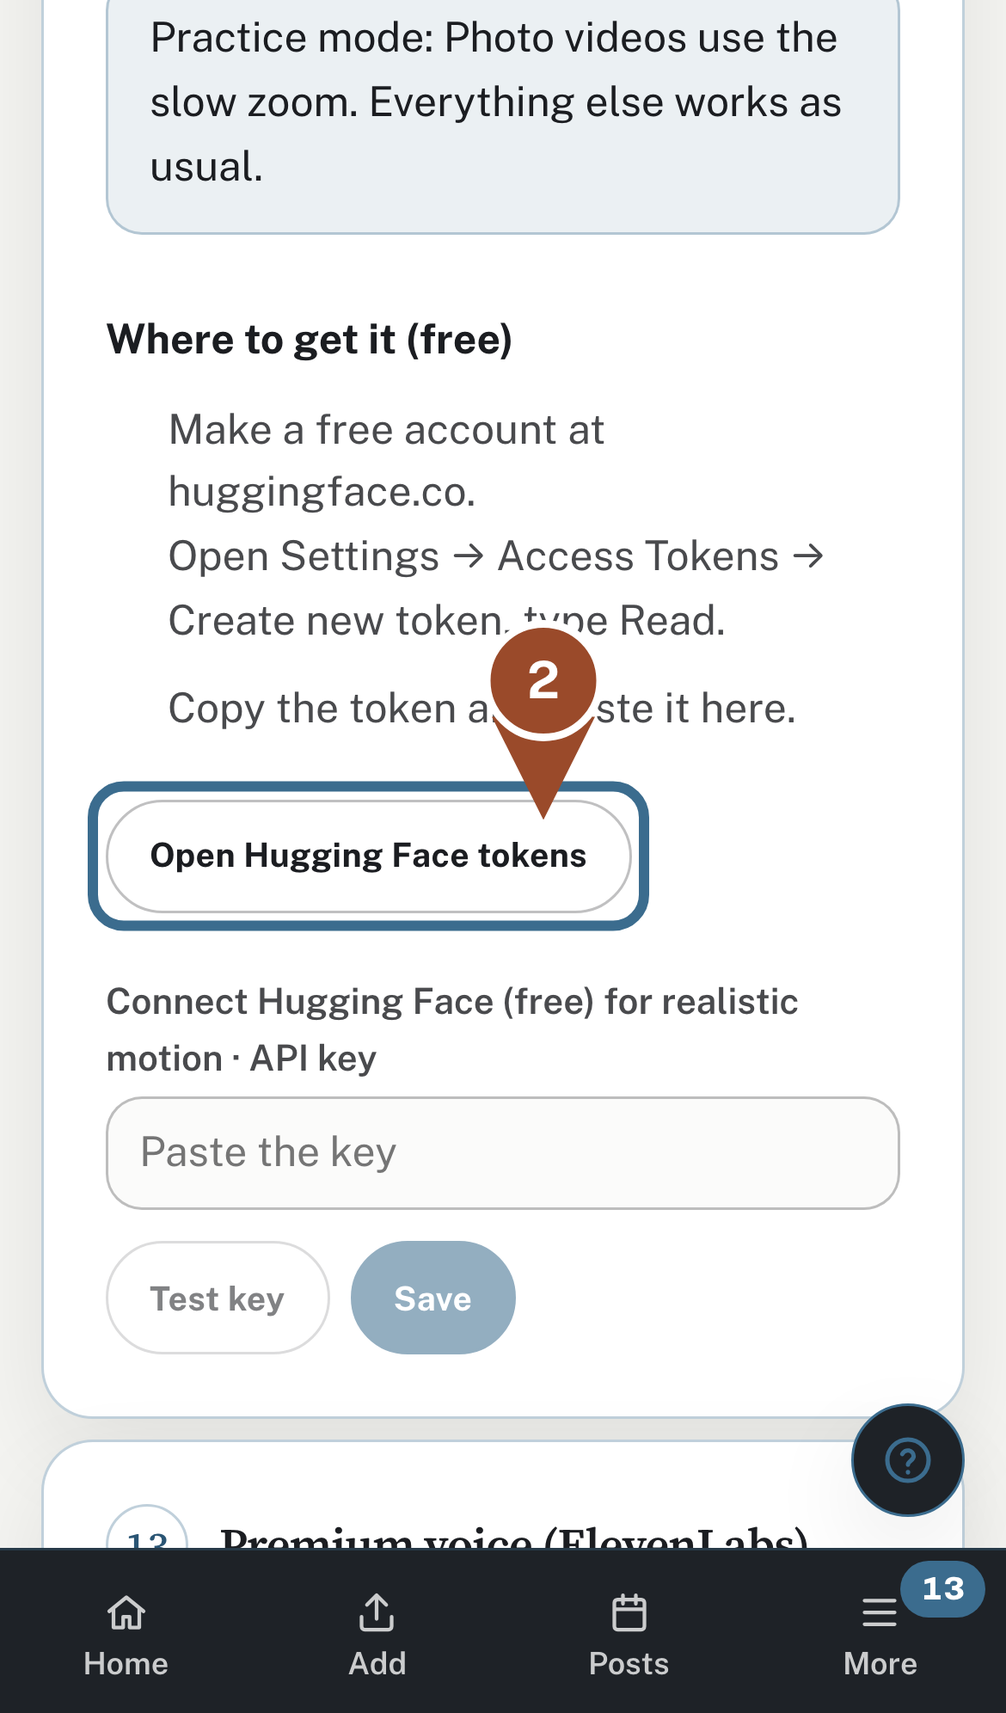
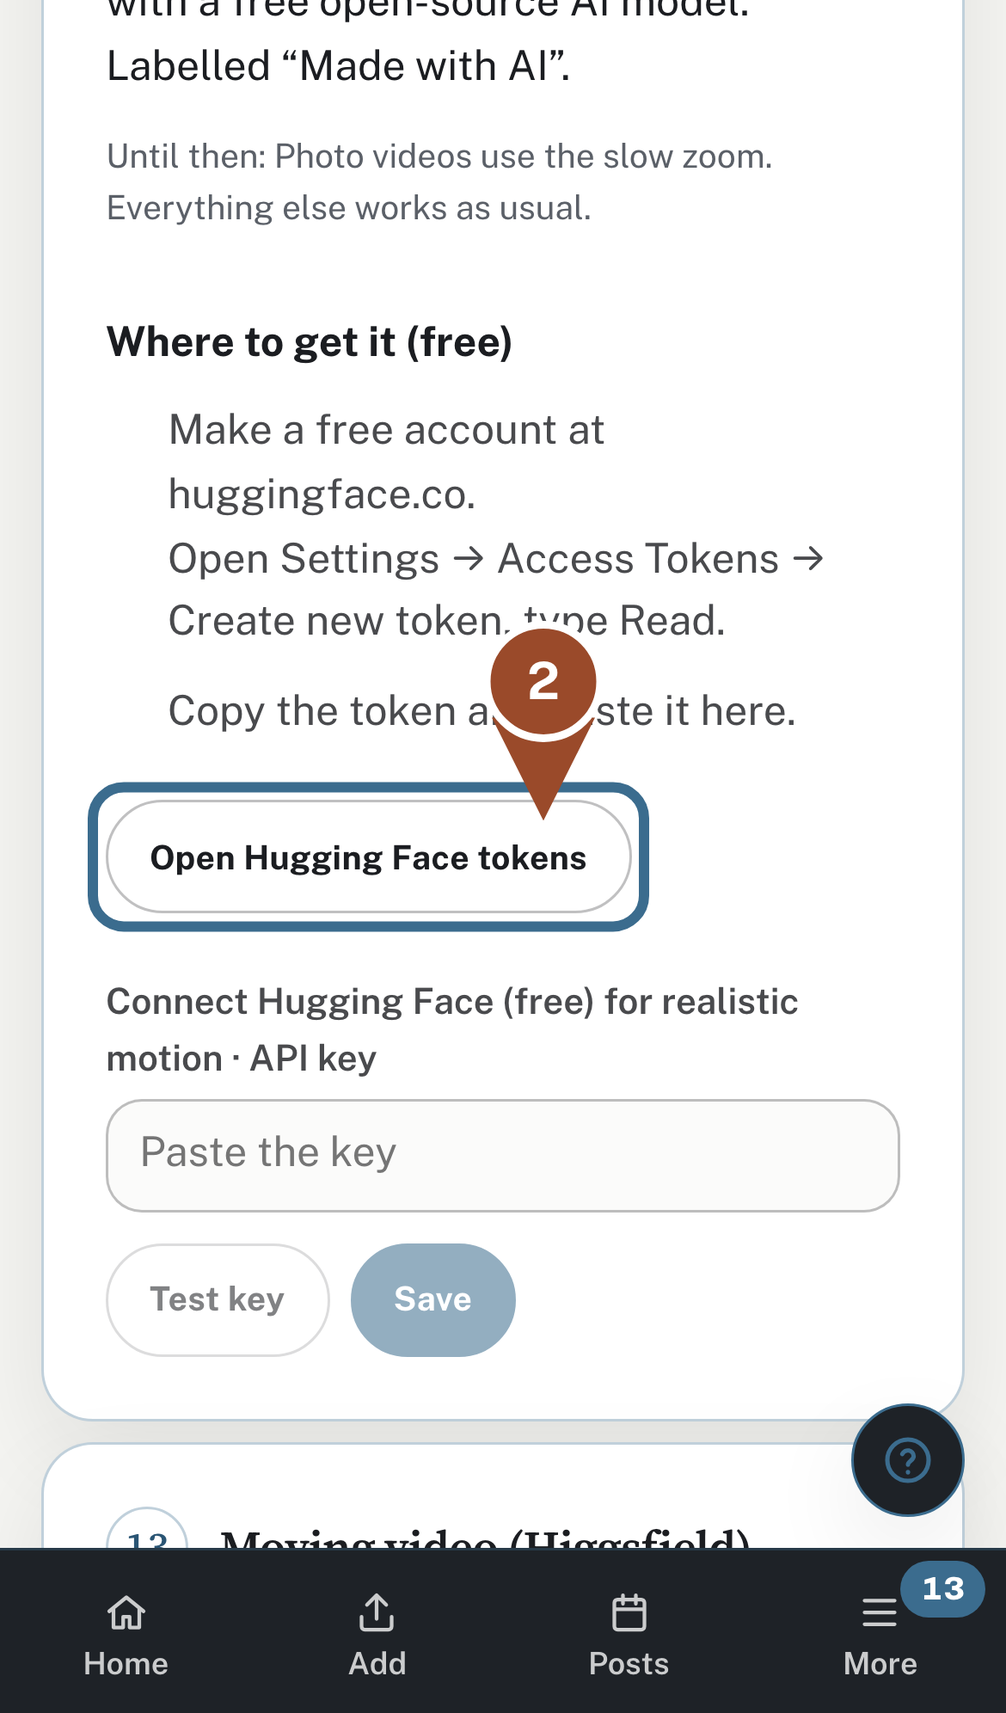
A place to connect Higgsfield; no "studio host" wording; no "Practice mode" label (owner, 13 Nov 2026)
- Connections → Your services and keys gets "Moving video (Higgsfield)": key ID + secret,
  checked read-only (a status lookup for a request that cannot exist: 401 refused, 404
  accepted), stored like every pasted key. Nothing is bought. Porch & Party reads the
  owner's own key from its 0600 files once she makes one; every other studio connects its own.
- "provided by your studio host", "Connected by your studio host", "Ask your studio host"
  and "your host gives you" become plain words; the keys page says "Not connected ·
  optional" and "Until then: …" instead of "Practice mode".
- Guide connect-higgsfield; tests/unit/higgsfield.test.ts.

Claude-Session: https://claude.ai/code/session_01CJ98gV1Fg1ugnbr1epnbBp

diff --git a/shared/setup.ts b/shared/setup.ts
@@ -7,7 +7,7 @@
 // (connections.secret_enc, SECRETS_KEY). At runtime the encrypted key is read FIRST, then the
 // Worker secret named in `secrets` (how a studio the host runs on the host's own accounts gets them).
 
-export type SetupServiceId = "resend" | "buffer" | "openrouter" | "firecrawl" | "hunter" | "youtube_api" | "google_app" | "meta_app" | "github" | "facebook" | "pinterest" | "elevenlabs" | "huggingface";
+export type SetupServiceId = "resend" | "buffer" | "openrouter" | "firecrawl" | "hunter" | "youtube_api" | "google_app" | "meta_app" | "github" | "facebook" | "pinterest" | "elevenlabs" | "huggingface" | "higgsfield";
 
 export interface SetupField {
   /** Key inside the stored value. A one-field step stores the bare key; a multi-field step stores JSON. */
@@ -55,7 +55,7 @@ export const SETUP_STEPS: SetupStep[] = [
     id: "resend",
     title: "Email",
     powers: "Your alerts, weekly recap and “clips are ready” emails, sent from your own Resend account.",
-    provided: "Your alerts, weekly recap and “clips are ready” emails, sent from an email account provided by your studio host.",
+    provided: "Your alerts, weekly recap and “clips are ready” emails, sent from an email account already set up for you.",
     practice: "Emails are written and listed on the health board, but not sent.",
     where: ["Make a free account at resend.com.", "Open API Keys and tap Create API key (Full access lets the check read your domains).", "Copy the key and paste it here. Add a From address on a domain you verified in Resend, or leave it empty to use Resend's test sender."],
     link: { label: "Open Resend API keys", url: "https://resend.com/api-keys" },
@@ -80,7 +80,7 @@ export const SETUP_STEPS: SetupStep[] = [
     id: "openrouter",
     title: "AI writing (OpenRouter)",
     powers: "Writes captions, the research brief, pitch drafts and voice-over scripts with free AI models.",
-    provided: "Writes captions, the research brief, pitch drafts and voice-over scripts with free AI models, on an AI account provided by your studio host.",
+    provided: "Writes captions, the research brief, pitch drafts and voice-over scripts with free AI models, on an AI account already set up for you.",
     practice: "Starter text is used instead of AI drafts, marked as a practice draft.",
     where: ["Make a free account at openrouter.ai.", "Open Keys and tap Create Key; leave the credit limit empty.", "Copy the key and paste it here."],
     link: { label: "Open OpenRouter keys", url: "https://openrouter.ai/settings/keys" },
@@ -94,7 +94,7 @@ export const SETUP_STEPS: SetupStep[] = [
     id: "firecrawl",
     title: "Web research (Firecrawl)",
     powers: "Reads brand and niche websites for the research brief and the brand finder.",
-    provided: "Reads brand and niche websites for the research brief and the brand finder, on a research account provided by your studio host.",
+    provided: "Reads brand and niche websites for the research brief and the brand finder, on a research account already set up for you.",
     practice: "Research uses the free keyless search instead.",
     where: ["Make a free account at firecrawl.dev.", "Open the dashboard and copy your API key.", "Paste it here."],
     link: { label: "Open Firecrawl", url: "https://www.firecrawl.dev/app/api-keys" },
@@ -108,7 +108,7 @@ export const SETUP_STEPS: SetupStep[] = [
     id: "hunter",
     title: "Brand contacts (Hunter)",
     powers: "Finds public partnership emails on a brand's website for Deals.",
-    provided: "Finds public partnership emails on a brand's website for Deals, on a contacts account provided by your studio host.",
+    provided: "Finds public partnership emails on a brand's website for Deals, on a contacts account already set up for you.",
     practice: "Deals shows where to look by hand; no contact search runs.",
     where: ["Make a free account at hunter.io.", "Open API and copy your key.", "Paste it here."],
     link: { label: "Open Hunter API", url: "https://hunter.io/api-keys" },
@@ -165,7 +165,7 @@ export const SETUP_STEPS: SetupStep[] = [
     title: "Clip cutting (job runner)",
     powers: "Cuts your footage into clips, makes full videos and voice overs on GitHub Actions (free for public repositories).",
     practice: "Clips are cut by the practice cutter: sample clips appear so you can try Review.",
-    where: ["Make a free account at github.com and copy the studio job repository your host gives you (Use this template).", "In that copy: Settings → Secrets and variables → Actions → New secret JOB_SHARED_SECRET with the value shown below.", "github.com → Settings → Developer settings → Fine-grained tokens: only that repository, Contents read and write.", "Paste the token and the repository (owner/name) here."],
+    where: ["Make a free account at github.com and copy the studio job repository your helper gives you (Use this template).", "In that copy: Settings → Secrets and variables → Actions → New secret JOB_SHARED_SECRET with the value shown below.", "github.com → Settings → Developer settings → Fine-grained tokens: only that repository, Contents read and write.", "Paste the token and the repository (owner/name) here."],
     link: { label: "Open GitHub tokens", url: "https://github.com/settings/personal-access-tokens/new" },
     fields: [
       { name: "token", label: "Token", placeholder: "github_pat_…" },
@@ -212,7 +212,7 @@ export const SETUP_STEPS: SetupStep[] = [
     id: "huggingface",
     title: "Connect Hugging Face (free) for realistic motion",
     powers: "Turns one photo into a short, realistic camera-move video for your photo posts, with a free open-source AI model. Labelled “Made with AI”.",
-    provided: "Turns one photo into a short, realistic camera-move video for your photo posts, on a free AI account provided by your studio host. Labelled “Made with AI”.",
+    provided: "Turns one photo into a short, realistic camera-move video for your photo posts, on a free AI account already set up for you. Labelled “Made with AI”.",
     practice: "Photo videos use the slow zoom. Everything else works as usual.",
     where: ["Make a free account at huggingface.co.", "Open Settings → Access Tokens → Create new token, type Read.", "Copy the token and paste it here."],
     link: { label: "Open Hugging Face tokens", url: "https://huggingface.co/settings/tokens" },
@@ -220,6 +220,26 @@ export const SETUP_STEPS: SetupStep[] = [
     secrets: ["HF_TOKEN"],
     guide: "connect-huggingface",
     free: true,
+  },
+  {
+    // Higgsfield (owner's rulings 5 and 10, 13 Nov 2026): a place to connect it, nothing bought, no
+    // key needed to build. Porch & Party reads the owner's own key from its 0600 secret file
+    // (studios/sample1.json); every other studio connects its own here. Checked read-only:
+    // worker/services/keychecks.ts checkHiggsfield.
+    id: "higgsfield",
+    title: "Moving video (Higgsfield)",
+    powers: "Connects your Higgsfield account, for moving videos made from your photos. Optional: until it is connected, moving photos use the free method.",
+    provided: "Connected to a Higgsfield account for you, for moving videos made from your photos.",
+    practice: "Moving photos use the free method. Everything else works as usual.",
+    where: ["Make an account at higgsfield.ai (its plans and credits are its own).", "Open console.higgsfield.ai and create an API key. It shows a key ID and a secret.", "Paste both here."],
+    link: { label: "Open Higgsfield keys", url: "https://console.higgsfield.ai" },
+    fields: [
+      { name: "key_id", label: "Key ID", placeholder: "Key ID", plain: true },
+      { name: "secret", label: "Secret", placeholder: "Secret" },
+    ],
+    secrets: ["HIGGSFIELD_KEY_ID", "HIGGSFIELD_KEY_SECRET"],
+    guide: "connect-higgsfield",
+    free: false,
   },
   {
     id: "elevenlabs",

diff --git a/tests/unit/higgsfield.test.ts b/tests/unit/higgsfield.test.ts
@@ -1,0 +1,56 @@
+// Higgsfield (owner's rulings 5 and 10, 13 Nov 2026): one place to connect it, nothing bought. The key
+// is a key ID plus a secret, checked read-only (a status lookup for a request that cannot exist), and
+// stored like every other pasted key. Nobody ever reads "studio host" or "site owner".
+import { afterEach, describe, expect, it, vi } from "vitest";
+import { readFileSync } from "node:fs";
+import type { Env } from "@worker/env";
+import { SETUP_STEPS, setupStep } from "@shared/setup";
+import { hasEnvKey, overlayFor, practiceList } from "@worker/lib/practice";
+import { checkHiggsfield } from "@worker/services/keychecks";
+
+afterEach(() => vi.unstubAllGlobals());
+const live = { FAKE_SERVICES: "0" } as Env;
+
+describe("Higgsfield on Connections", () => {
+  it("is one optional card with its own guide, backed by the two secret names", () => {
+    const step = setupStep("higgsfield")!;
+    expect(SETUP_STEPS.filter((s) => s.id === "higgsfield")).toHaveLength(1);
+    expect(step.title).toBe("Moving video (Higgsfield)");
+    expect(step.fields.map((f) => f.name)).toEqual(["key_id", "secret"]);
+    expect(step.secrets).toEqual(["HIGGSFIELD_KEY_ID", "HIGGSFIELD_KEY_SECRET"]);
+    expect(readFileSync(`help/guides/${step.guide}.md`, "utf8")).toContain("#setup-higgsfield");
+    expect(step.practice).toMatch(/free method/);
+  });
+
+  it("a pasted key lights it up; both halves are needed", () => {
+    expect(overlayFor("higgsfield", JSON.stringify({ key_id: "id1", secret: "s1" }))).toEqual({ HIGGSFIELD_KEY_ID: "id1", HIGGSFIELD_KEY_SECRET: "s1" });
+    expect(overlayFor("higgsfield", JSON.stringify({ key_id: "id1" }))).toEqual({});
+    expect(hasEnvKey({ HIGGSFIELD_KEY_ID: "id1" }, "higgsfield")).toBe(false);
+    expect(hasEnvKey({ HIGGSFIELD_KEY_ID: "id1", HIGGSFIELD_KEY_SECRET: "s1" }, "higgsfield")).toBe(true);
+    expect(practiceList(live, new Set())).toContain("higgsfield");
+    expect(practiceList({ ...live, HIGGSFIELD_KEY_ID: "id1", HIGGSFIELD_KEY_SECRET: "s1" } as Env, new Set())).not.toContain("higgsfield");
+  });
+
+  it("the check is one read-only status lookup with the Key header: 401 refused, 404 accepted", async () => {
+    const calls: { url: string; auth: string | null; method: string }[] = [];
+    const answer = (status: number) =>
+      vi.stubGlobal("fetch", async (url: string, init?: RequestInit) => {
+        calls.push({ url, auth: new Headers(init?.headers).get("Authorization"), method: init?.method ?? "GET" });
+        return new Response("{}", { status });
+      });
+    answer(401);
+    expect(await checkHiggsfield(live, "id1", "s1")).toMatchObject({ ok: false, error: expect.stringMatching(/not valid/) });
+    answer(404);
+    expect(await checkHiggsfield(live, "id1", "s1")).toMatchObject({ ok: true });
+    answer(500);
+    expect((await checkHiggsfield(live, "id1", "s1")).ok).toBe(false);
+    expect(calls.every((c) => c.method === "GET" && c.auth === "Key id1:s1" && /^https:\/\/api\.higgsfield\.ai\/requests\/[0-9a-f-]+\/status$/.test(c.url))).toBe(true);
+  });
+
+  it("no screen says studio host or site owner", () => {
+    for (const f of ["shared/setup.ts", "app/pages/Setup.tsx", "app/pages/Connect.tsx", "worker/routes/photos.ts", "worker/lib/photoPosts.ts"]) {
+      const shown = readFileSync(f, "utf8").replace(/^\s*(\/\/|\*|\/\*).*$/gm, "");
+      expect(shown, f).not.toMatch(/studio host|site owner|your host/i);
+    }
+  });
+});

diff --git a/worker/routes/setup.ts b/worker/routes/setup.ts
@@ -12,7 +12,7 @@ import { recordEvent, setHealth } from "../lib/db";
 import { fail, readJson } from "../lib/http";
 import { log } from "../lib/log";
 import { hasEnvKey } from "../lib/practice";
-import { checkGithubRunner, checkGoogleApp, checkHuggingFace, checkMetaApp, checkResend, checkYouTubeKey, type KeyCheck } from "../services/keychecks";
+import { checkGithubRunner, checkGoogleApp, checkHuggingFace, checkHiggsfield, checkMetaApp, checkResend, checkYouTubeKey, type KeyCheck } from "../services/keychecks";
 import { CHECKS, writeServiceHealth } from "./connections";
 import { getFacebook } from "../services/facebook";
 import { getPinterest } from "../services/pinterest";
@@ -30,6 +30,7 @@ const LIGHT: Partial<Record<SetupServiceId, string>> = {
   facebook: "Facebook Page",
   pinterest: "Pinterest",
   huggingface: "Realistic motion (Hugging Face)",
+  higgsfield: "Moving video (Higgsfield)",
 };
 
 /** The pasted fields → the value stored (a bare key, or JSON for a multi-field step). Pure. */
@@ -63,6 +64,8 @@ export async function probe(env: Env, id: SetupServiceId, fields: Record<string,
       return checkGithubRunner(env, f("token"), f("repo"));
     case "huggingface":
       return checkHuggingFace(env, f("key"));
+    case "higgsfield":
+      return checkHiggsfield(env, f("key_id"), f("secret"));
     case "facebook":
       return getFacebook(env, { pageId: f("page_id"), token: f("page_token") }).checkKey();
     case "pinterest":

diff --git a/worker/services/keychecks.ts b/worker/services/keychecks.ts
@@ -114,6 +114,19 @@ export async function checkHuggingFace(env: Env, key: string): Promise<KeyCheck>
   return { ok: false, error: vendorStatusError("Hugging Face", res.status), meta: {} };
 }
 
+/**
+ * Higgsfield: a status lookup for a request id that cannot exist (docs.higgsfield.ai/docs/authentication:
+ * "Authorization: Key <id>:<secret>"; bad credentials answer 401). A lookup makes nothing and spends no
+ * credits: 401/403 = refused, a 404 for the made-up request = the key was accepted.
+ */
+export async function checkHiggsfield(env: Env, keyId: string, secret: string): Promise<KeyCheck> {
+  if (fakeServices(env)) return fakeCheck(`${keyId}:${secret}`, "Higgsfield");
+  const res = await fetch("https://api.higgsfield.ai/requests/00000000-0000-0000-0000-000000000000/status", { headers: { Authorization: `Key ${keyId}:${secret}` } });
+  if (res.status === 401 || res.status === 403) return { ok: false, error: "Higgsfield says this key ID and secret are not valid. Copy both again from console.higgsfield.ai.", meta: {} };
+  if (res.ok || res.status === 404 || res.status === 422) return { ok: true, error: null, meta: {} };
+  return { ok: false, error: vendorStatusError("Higgsfield", res.status), meta: {} };
+}
+
 /** YouTube Data API key: the video categories list (1 quota unit, public data, read-only). */
 export async function checkYouTubeKey(env: Env, key: string): Promise<KeyCheck> {
   if (fakeServices(env)) return fakeCheck(key, "Google");

diff --git a/app/pages/Setup.tsx b/app/pages/Setup.tsx
@@ -13,7 +13,7 @@ import "../styles/setup.css";
 const STATE_LABEL: Record<SetupStatus["state"], { text: string; tone: "ok" | "warn" | "bad" | "" }> = {
   live: { text: "Live · your key", tone: "ok" },
   provided: { text: "Already set up for you", tone: "ok" },
-  practice: { text: "Practice mode", tone: "warn" },
+  practice: { text: "Not connected · optional", tone: "" },
   error: { text: "Needs a new key", tone: "bad" },
 };
 
@@ -93,7 +93,7 @@ function StepCard({ n, step, status, view, onChange }: { n: number; step: SetupS
     setBusy("remove");
     try {
       await post(`/api/setup/${step.id}/remove`);
-      toast.ok(`${step.title} removed. It runs in practice mode again.`);
+      toast.ok(`${step.title} removed. ${step.practice}`);
       await onChange();
     } catch (err) {
       toast.bad(err);
@@ -116,7 +116,7 @@ function StepCard({ n, step, status, view, onChange }: { n: number; step: SetupS
         </span>
       </div>
       <p>{powersFor(step, status.state)}</p>
-      {status.state === "practice" ? <Notice tone="info">Practice mode: {step.practice}</Notice> : null}
+      {status.state === "practice" ? <p className="hint">Until then: {step.practice}</p> : null}
       {status.state === "error" ? <Notice tone="bad">{status.last_error ?? "The stored key stopped working."} Paste a new one below.</Notice> : null}
       {Object.keys(status.shown).length ? (
         <p className="hint">

diff --git a/worker/routes/photos.ts b/worker/routes/photos.ts
@@ -13,7 +13,7 @@ import { textProblems } from "@shared/contentRules";
 export const photos = new Hono<{ Bindings: Env; Variables: Vars }>();
 photos.use("*", requireUser);
 
-const OFF = "Photo posts are not part of this studio yet. Ask your studio host to switch them on.";
+const OFF = "Photo posts are not part of this studio yet. Ask your helper to switch them on.";
 const tz = async (env: Env) => (await readSettings(env).catch(() => null))?.audience_timezone || env.AUDIENCE_TIMEZONE || "America/New_York";
 
 photos.get("/", async (c) => c.json(await photosHome(c.env)));
@@ -130,7 +130,7 @@ photos.post("/packs/:id/plan", async (c) => c.json({ planned: await schedulePack
  */
 photos.post("/packs/:id/heads-up-test", async (c) => {
   const dev = developerEmail(c.env);
-  if (!dev || (c.get("user").email ?? "").trim().toLowerCase() !== dev) return fail(c, 403, "Only the studio host's developer login can send a test heads-up.");
+  if (!dev || (c.get("user").email ?? "").trim().toLowerCase() !== dev) return fail(c, 403, "Only the studio's developer login can send a test heads-up.");
   const r = await sendTestHeadsUp(c.env, c.req.param("id"));
   return c.json(r, r.ok ? 200 : 409);
 });

diff --git a/tests/unit/studios.test.ts b/tests/unit/studios.test.ts
@@ -47,7 +47,7 @@ describe("the registry", () => {
     // Owner's word 22 Oct 2026 ("same as Hadiyah"): the host's job runner, Resend and OpenRouter, plus its
     // own Hugging Face token; none of the host's YouTube, Google, Firecrawl or Hunter.
     expect(by.sample1).toMatchObject({ githubRepo: "seq23/creator-studios", jobSecretOnHostRepo: true, hostKeys: ["OPENROUTER_API_KEY", "RESEND_API_KEY", "STUDIO_EMAIL_FROM"] });
-    expect(Object.keys(by.sample1.hostSecrets).filter((k) => !k.startsWith("_")).sort()).toEqual(["GITHUB_DISPATCH_TOKEN", "HF_TOKEN", "NOTIFY_EMAIL", "OPENROUTER_API_KEY", "RESEND_API_KEY", "STUDIO_EMAIL_FROM"]);
+    expect(Object.keys(by.sample1.hostSecrets).filter((k) => !k.startsWith("_")).sort()).toEqual(["GITHUB_DISPATCH_TOKEN", "HF_TOKEN", "HIGGSFIELD_KEY_ID", "HIGGSFIELD_KEY_SECRET", "NOTIFY_EMAIL", "OPENROUTER_API_KEY", "RESEND_API_KEY", "STUDIO_EMAIL_FROM"]);
     for (const n of [3]) {
       expect(by[`sample${n}`], `sample${n}`).not.toHaveProperty("githubRepo");
       expect(by[`sample${n}`], `sample${n}`).not.toHaveProperty("hostSecrets");

diff --git a/worker/lib/photoPosts.ts b/worker/lib/photoPosts.ts
@@ -608,7 +608,7 @@ export async function photosHome(env: Env): Promise<PhotosHome> {
   const rules = contentRules(env);
   const tz = await timeZone(env);
   const ruleView = { banWords: rules.banWords, prices: priceList(rules), blockAddresses: rules.blockAddresses, blockFaces: rules.blockFaces };
-  if (!cfg.on) return { on: false, off_line: "Photo posts are not part of this studio yet. Ask your studio host to switch them on.", stops: [], maker_practice: false, upcoming: [], packs: [], rules: ruleView };
+  if (!cfg.on) return { on: false, off_line: "Photo posts are not part of this studio yet. Ask your helper to switch them on.", stops: [], maker_practice: false, upcoming: [], packs: [], rules: ruleView };
   const stops: PhotosHome["stops"] = [];
   for (const p of cfg.platforms) if (!(await platformReady(env, p))) stops.push({ platform: p, label: connectLabel(p), setup: SOCIAL_SETUP[p], why: CONNECT_WHY[p] });
   const { results: packIds } = await env.DB.prepare("SELECT id FROM photo_packs ORDER BY created_at DESC LIMIT 20").all<{ id: string }>();

diff --git a/app/pages/Connect.tsx b/app/pages/Connect.tsx
@@ -229,7 +229,7 @@ function Section({ n, title, children }: { n: number; title: string; children: R
 function StatusPill({ conn }: { conn: ConnectionView | null }) {
   const status = conn?.status ?? "missing";
   const light = status === "ok" ? "green" : status === "error" ? "red" : "grey";
-  const text = status === "ok" ? `${conn?.meta.host ? "Connected by your studio host" : "Connected"}${conn?.last_ok_at ? ` · checked ${ago(conn.last_ok_at)}` : ""}` : status === "error" ? (conn?.last_error ?? "Needs you") : status === "disconnected" ? "Disconnected" : "Not connected";
+  const text = status === "ok" ? `${conn?.meta.host ? "Connected for you" : "Connected"}${conn?.last_ok_at ? ` · checked ${ago(conn.last_ok_at)}` : ""}` : status === "error" ? (conn?.last_error ?? "Needs you") : status === "disconnected" ? "Disconnected" : "Not connected";
   return (
     <span className="row status-pill">
       <Dot light={light} />

diff --git a/worker/lib/practice.ts b/worker/lib/practice.ts
@@ -52,6 +52,8 @@ export function overlayFor(service: SetupServiceId, raw: string): Partial<Env> {
       return f.token && f.board_id ? { PINTEREST_ACCESS_TOKEN: f.token, PINTEREST_BOARD_ID: f.board_id } : {};
     case "huggingface":
       return { HF_TOKEN: f.key };
+    case "higgsfield":
+      return f.key_id && f.secret ? { HIGGSFIELD_KEY_ID: f.key_id, HIGGSFIELD_KEY_SECRET: f.secret } : {};
     default:
       return {};
   }
@@ -82,6 +84,8 @@ export function hasEnvKey(env: Partial<Env>, service: SetupServiceId): boolean {
       return !!(env.PINTEREST_ACCESS_TOKEN && env.PINTEREST_BOARD_ID);
     case "huggingface":
       return !!env.HF_TOKEN;
+    case "higgsfield":
+      return !!(env.HIGGSFIELD_KEY_ID && env.HIGGSFIELD_KEY_SECRET);
     default:
       return false;
   }

diff --git a/app/pages/Stats.tsx b/app/pages/Stats.tsx
@@ -37,7 +37,7 @@ interface StatsData {
 
 /** What the YouTube card says about the public numbers, in plain words. */
 const YT_STATE: Record<string, string> = {
-  no_key: "Practice mode: YouTube numbers start once a YouTube key is added on Setup (YouTube numbers). Everything else on Stats works now.",
+  no_key: "YouTube numbers start once a YouTube key is added under More → Connections → Your services and keys (YouTube numbers). Everything else on Stats works now.",
   no_channel: "Type your YouTube channel below so we can read its numbers.",
   not_found: "We couldn’t find that YouTube channel. Check the @name below.",
   key_refused: "YouTube refused this dashboard’s key. Your helper has the same message; we’ll try again tomorrow.",

diff --git a/worker/env.ts b/worker/env.ts
@@ -32,6 +32,9 @@ export interface Env {
   OPENROUTER_ORDER?: string;
   /** Hugging Face token for realistic motion (Setup → Realistic motion, or a Worker secret). */
   HF_TOKEN?: string;
+  /** Higgsfield key ID and secret (Setup → Moving video, or the studio's own secret files). */
+  HIGGSFIELD_KEY_ID?: string;
+  HIGGSFIELD_KEY_SECRET?: string;
   /** Every studio email except login codes goes ONLY here when set (worker/services/email.ts routeRecipients). */
   NOTIFY_EMAIL?: string;
   /** The studio's theme (JSON from studios/<slug>.json: palette tokens, fonts, wordmark). */
